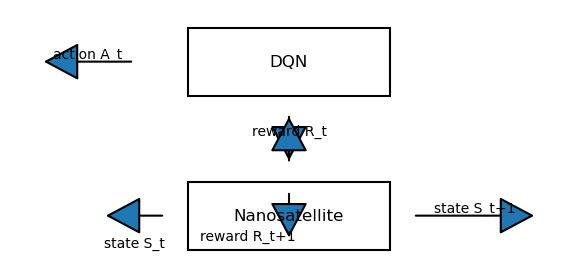
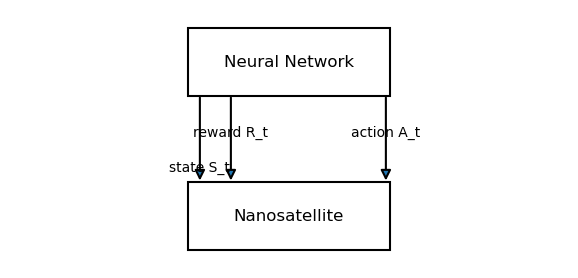
schema is almost done

diff --git a/06-progress_04_22_2024/padilla-villanueva/python/drawing/reward-schema.py b/06-progress_04_22_2024/padilla-villanueva/python/drawing/reward-schema.py
@@ -16,9 +16,12 @@ def create_rectangle(center, width, height, label):
     ax.add_patch(rect)
     ax.text(center[0], center[1], label, ha='center', va='center', fontsize=12)
 
-def create_arrow(start, end, text, text_offset, bidirectional=False):
+def create_arrow(start, end, text, text_offset, bidirectional=False, headless=False):
     """Creates an arrow patch between two points, with an optional label."""
-    style = ArrowStyle.CurveFilledB(head_length=1.5, head_width=0.8)
+    if headless:
+        style = '-|>'
+    else:
+        style = ArrowStyle.CurveFilledB(head_length=1.5, head_width=0.8)
     arrow = FancyArrowPatch(start, end, arrowstyle=style, mutation_scale=15, lw=1.5)
     ax.add_patch(arrow)
     if bidirectional:
@@ -29,15 +32,15 @@ def create_arrow(start, end, text, text_offset, bidirectional=False):
                     xytext=text_offset, textcoords='offset points', ha='center', va='center', fontsize=10)
 
 # Add the blocks to the diagram
-create_rectangle((3.6, 2.68), 2.4, 0.68, 'DQN')
+create_rectangle((3.6, 2.68), 2.4, 0.68, 'Neural Network')
 create_rectangle((3.6, 0.68), 2.4, 0.68, 'Nanosatellite')
 
 # Add the arrows to the diagram, connecting blocks
-create_arrow((3.6, 2), (3.6, 1.36), 'reward R_t', (0, 5), bidirectional=True)
-create_arrow((3.6, 1), (3.6, 0.36), 'reward R_t+1', (-30, -15))
-create_arrow((1.6, 2.68), (0.4, 2.68), 'action A_t', (0, 5))
-create_arrow((2, 0.68), (1.2, 0.68), 'state S_t', (0, -20))
-create_arrow((5.2, 0.68), (6.8, 0.68), 'state S_t+1', (0, 5))
+create_arrow((2.85, 2.25), (2.85, 1.1), 'reward R_t', (0, 5), headless=True)
+#create_arrow((3.6, 1), (3.6, 0.36), 'reward R_t+1', (-30, -15), headless=True)
+create_arrow((4.85,2.25), (4.85, 1.1), 'action A_t', (0, 5), headless=True)
+create_arrow((2.45, 2.25), (2.45, 1.1), 'state S_t', (0, -20), headless=True)
+#create_arrow((5.2, 0.68), (6.8, 0.68), 'state S_t+1', (0, 5), headless=True)
 
 # Save the figure
 plt.savefig('reward.png', bbox_inches='tight')
